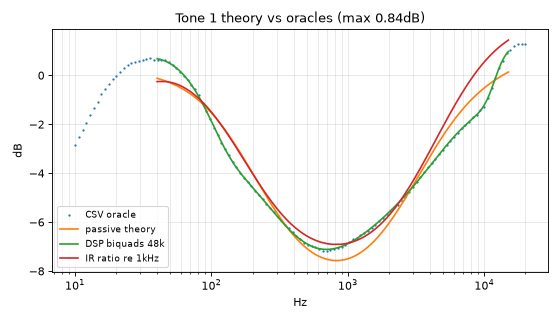
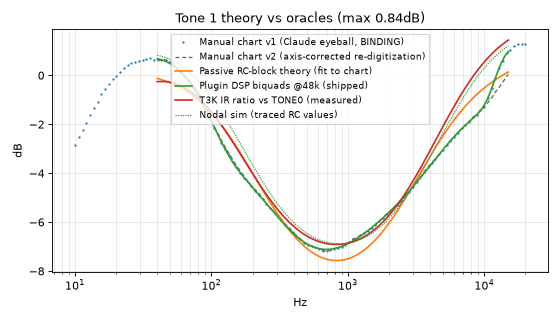
research: rename Claude-eyeball files (_from_claude), overlays with sourced legend + nodal/v2 lines

diff --git a/analysis/circuit_trace/derive.py b/analysis/circuit_trace/derive.py
@@ -20,7 +20,8 @@ import numpy as np
 
 HERE = os.path.dirname(os.path.abspath(__file__))
 REPO = os.path.dirname(os.path.dirname(HERE))
-CSV_ORACLE = os.path.join(REPO, "analysis", "u5_tone_curves_digitized.csv")
+CSV_ORACLE = os.path.join(REPO, "analysis", "u5_tone_curves_from_claude.csv")
+CSV_V2 = os.path.join(REPO, "analysis", "u5_tone_curves_digitized_v2.csv")
 BIQUADS = os.path.join(REPO, "analysis", "u5_tone_biquads.json")
 IR_DIR = os.path.join(REPO, "analysis", "ir_local")
 
@@ -62,6 +63,21 @@ def db(x):
 def load_csv():
     d = np.genfromtxt(CSV_ORACLE, delimiter=",", skip_header=1)
     return d[:, 0], {n + 1: d[:, n + 1] for n in range(6)}
+
+
+def load_csv_v2():
+    d = np.genfromtxt(CSV_V2, delimiter=",", skip_header=1)
+    return d[:, 0], {n + 1: d[:, n + 1] for n in range(6)}
+
+
+def nodal_response(fgrid):
+    """Traced-netlist nodal sim (nodal_tone.py NETS), dB per tone same grid."""
+    import sys
+    sys.path.insert(0, os.path.dirname(os.path.abspath(__file__)))
+    import nodal_tone
+    V = nodal_tone.solve(fgrid)
+    H = 20 * np.log10(np.maximum(V, 1e-30))
+    return {n + 1: H[n] for n in range(6)}
 
 
 def dsp_response(sections, f, fs=48000.0):
@@ -207,8 +223,10 @@ def fit_tone(blocks, p0, f, target):
 
 def main():
     ff, curves = load_csv()
+    ff2, curves2 = load_csv_v2()
     dsp = load_dsp()
     fgrid = np.logspace(np.log10(40), np.log10(15000), 200)
+    nodal = nodal_response(fgrid)
     thr, dth, ith = [], [], []
     have_ir = os.path.isdir(IR_DIR) and any(
         os.path.exists(os.path.join(IR_DIR, "AVALON_TONE%d.wav" % n)) for n in range(7)
@@ -270,11 +288,20 @@ def main():
             ("worst@%.0fHz" % fgrid[np.argmax(np.abs(e))] if vt == "DIVERGE" else "")))
         if do_plot:
             fig, ax = plt.subplots(figsize=(7, 4))
-            ax.semilogx(ff, curves[n], ".", ms=2, label="CSV oracle")
-            ax.semilogx(fgrid, theo, label="passive theory")
-            ax.semilogx(fgrid, dd, label="DSP biquads 48k")
+            ax.semilogx(ff, curves[n], ".", ms=2,
+                        label="Manual chart v1 (Claude eyeball, BINDING)")
+            ax.semilogx(fgrid, np.interp(fgrid, ff2, curves2[n]),
+                        label="Manual chart v2 (axis-corrected re-digitization)",
+                        lw=1.2, ls=(0, (3, 2)), color="dimgray")
+            ax.semilogx(fgrid, theo, label="Passive RC-block theory (fit to chart)")
+            ax.semilogx(fgrid, dd, label="Plugin DSP biquads @48k (shipped)")
             if have_ir and np.isfinite(imax):
-                ax.semilogx(fgrid, ir + np.interp(1000.0, fgrid, tgt), label="IR ratio re 1kHz")
+                ax.semilogx(fgrid, ir + np.interp(1000.0, fgrid, tgt),
+                            label="T3K IR ratio vs TONE0 (measured)")
+            ax.semilogx(fgrid, nodal[n] - np.interp(1000.0, fgrid, nodal[n])
+                        + np.interp(1000.0, fgrid, tgt),
+                        label="Nodal sim (traced RC values)", lw=1.1,
+                        ls=(0, (1, 1)), color="tab:green")
             ax.set_title("Tone %d theory vs oracles (max %.2fdB)" % (n, tmax))
             ax.set_xlabel("Hz")
             ax.set_ylabel("dB")

diff --git a/analysis/circuit_trace/redigit_tone.py b/analysis/circuit_trace/redigit_tone.py
@@ -1,6 +1,6 @@
 """Re-digitize the U5 manual tone pictures with a CORRECTED log x-axis.
 
-Provenance (read before trusting): analysis/u5_tone_curves_digitized.csv
+Provenance (read before trusting): analysis/u5_tone_curves_from_claude.csv
 (v1) is Claude's eyeball digitization of docs/refs/Tone+images.png, and it
 bakes in a known axis distortion — the printed 20 kHz tick sits ~2x wider
 than true log scale, and v1 follows the drawn ticks (see Downloads/
@@ -78,7 +78,7 @@ def extract(fix):
 
 
 repo_f, repo = [], {}
-with open(os.path.join(REPO, "analysis", "u5_tone_curves_digitized.csv"),
+with open(os.path.join(REPO, "analysis", "u5_tone_curves_from_claude.csv"),
           newline="") as fh:
     for row in csv.DictReader(fh):
         repo_f.append(float(row["freq_hz"]))

diff --git a/analysis/ir_check.py b/analysis/ir_check.py
@@ -542,7 +542,7 @@ def main():
     ap.add_argument("--ir-dir", default=os.path.join(HERE, "ir_local"))
     ap.add_argument("--zoom-dir", default=os.path.join(HERE, "zoom_ref"))
     ap.add_argument("--csv", default=os.path.join(HERE,
-                                                  "u5_tone_curves_digitized.csv"))
+                                                  "u5_tone_curves_from_claude.csv"))
     ap.add_argument("--header-targets", default=os.path.join(HERE,
                                                              "tone_targets.h"))
     args = ap.parse_args()

diff --git a/src/dsp/ToneBank.h b/src/dsp/ToneBank.h
@@ -7,7 +7,7 @@
 #include <cmath>
 
 // Tone-bank biquads, Abalone W5 v1 Task-24 tight fit to the digitized gray
-// — analysis/u5_tone_curves_digitized.csv (121 log-spaced points, 10 Hz-20
+// — analysis/u5_tone_curves_from_claude.csv (121 log-spaced points, 10 Hz-20
 // kHz) is the SOLE binding target over EVERY point 10 Hz-20 kHz inclusive
 // (Ruling 20 — the old 40 Hz+ window under-reported the 10-40 Hz band by up
 // to 0.6 dB). Supersedes all Task-22 numbers; keeps anchor/highcut rulings.

diff --git a/analysis/circuit_trace/nodal_tone.py b/analysis/circuit_trace/nodal_tone.py
@@ -72,7 +72,7 @@ for t, m in zip(range(1,7), [-18.62,-18.58,-19.16,-18.26,-35.98,-37.36]):
 
 # CSV oracle
 cf, cc = [], {t: [] for t in range(1, 7)}
-with open(os.path.join(HERE, "..", "u5_tone_curves_digitized.csv"),
+with open(os.path.join(HERE, "..", "u5_tone_curves_from_claude.csv"),
           newline="") as fh:
     for row in csv.DictReader(fh):
         cf.append(float(row["freq_hz"]))

diff --git a/analysis/circuit_trace/fit_hardware.py b/analysis/circuit_trace/fit_hardware.py
@@ -149,7 +149,7 @@ def fit_tone(sections, tgt_nodal, tgt_csv, zm):
 
 def main():
     cf, cc = [], {}
-    with open(os.path.join(REPO, "analysis", "u5_tone_curves_digitized.csv"),
+    with open(os.path.join(REPO, "analysis", "u5_tone_curves_from_claude.csv"),
               newline="") as fh:
         import csv as _csv
         for row in _csv.DictReader(fh):

diff --git a/tests/ToneBankTest.cpp b/tests/ToneBankTest.cpp
@@ -31,7 +31,7 @@ int gFailures = 0;
     } while (0)
 
 #if !defined(TONE_CSV_PATH)
-#define TONE_CSV_PATH "../analysis/u5_tone_curves_digitized.csv"
+#define TONE_CSV_PATH "../analysis/u5_tone_curves_from_claude.csv"
 #endif
 
 struct DenseCurve

diff --git a/analysis/IR_VALIDATION.md b/analysis/IR_VALIDATION.md
@@ -253,7 +253,7 @@ gate); chart either-oracle (advisory, ±1.0) 0.26/0.71/0.30/0.32/0.17/0.14 →
 0.53/0.44/0.18/0.43/0.23/0.30 (all pass); port GREEN (worst diff 0.005 dB);
 user-complaint directions held (T1 scoop depth now within 0.55 dB at the
 anchor-constrained foot, T3 dip present, T3/T4 non-twins — verified on the
-regen plot vs `u5_tone_fit_check.png`).
+regen plot vs `u5_tone_fit_check_from_claude.png`).
 
 **T1 recorded deviation** (dense gate 0.6, low-end gate 0.6 — anchor wins per
 tie-break): the −3 dB anchor pins the highpass at ~14.9 Hz while the CSV foot
@@ -286,11 +286,11 @@ report-only).
 ### Task 20 full-band fit to the digitized CSV COMPLETE — CSV binding ±0.5 dB
 
 User-directed (recreate the fit-check): the tone bank now tracks
-`analysis/u5_tone_curves_digitized.csv` within **±0.5 dB over 40 Hz–15 kHz
+`analysis/u5_tone_curves_from_claude.csv` within **±0.5 dB over 40 Hz–15 kHz
 at every CSV point** on every tone except T2 (recorded deviation, below).
 Hierarchy (user ruling, supersedes Tasks 12/15/17): **digitized CSV binding
 full-band; eye-read header advisory; IR shapes advisory (reported, not
-gated)** — the user judges the CSV + `docs/refs/u5_tone_fit_check.png`
+gated)** — the user judges the CSV + `docs/refs/u5_tone_fit_check_from_claude.png`
 truer than both the eye-reads and the captures. Low end keeps Task-17
 gates ([40,200] Hz ±0.3 dB, T2 ±0.5); 10–40 Hz stays excluded (chart-noise
 floor); highcut-ON captures stay non-adjudicating (Ruling A); HighCut.h
@@ -333,7 +333,7 @@ sections for 0.44 dB here. Pending user ruling: topology change vs accepted
 deviation. No gate loosened silently, no role changed.
 
 Known user complaints verified on the regen `docs/tone-curves.png` against
-`docs/refs/u5_tone_fit_check.png` panel by panel: T1 scoop bottom tracks the
+`docs/refs/u5_tone_fit_check_from_claude.png` panel by panel: T1 scoop bottom tracks the
 picture's dip depth (−7.18 dB @ 697 Hz within 0.28 dB); T3 keeps its slight
 low-end dip (tracked, visibly not flat); T3/T4 read as non-twins (gentle
 scoop vs flat shelf + 6 kHz dip). Sub-40 Hz divergences (HP plunge on
